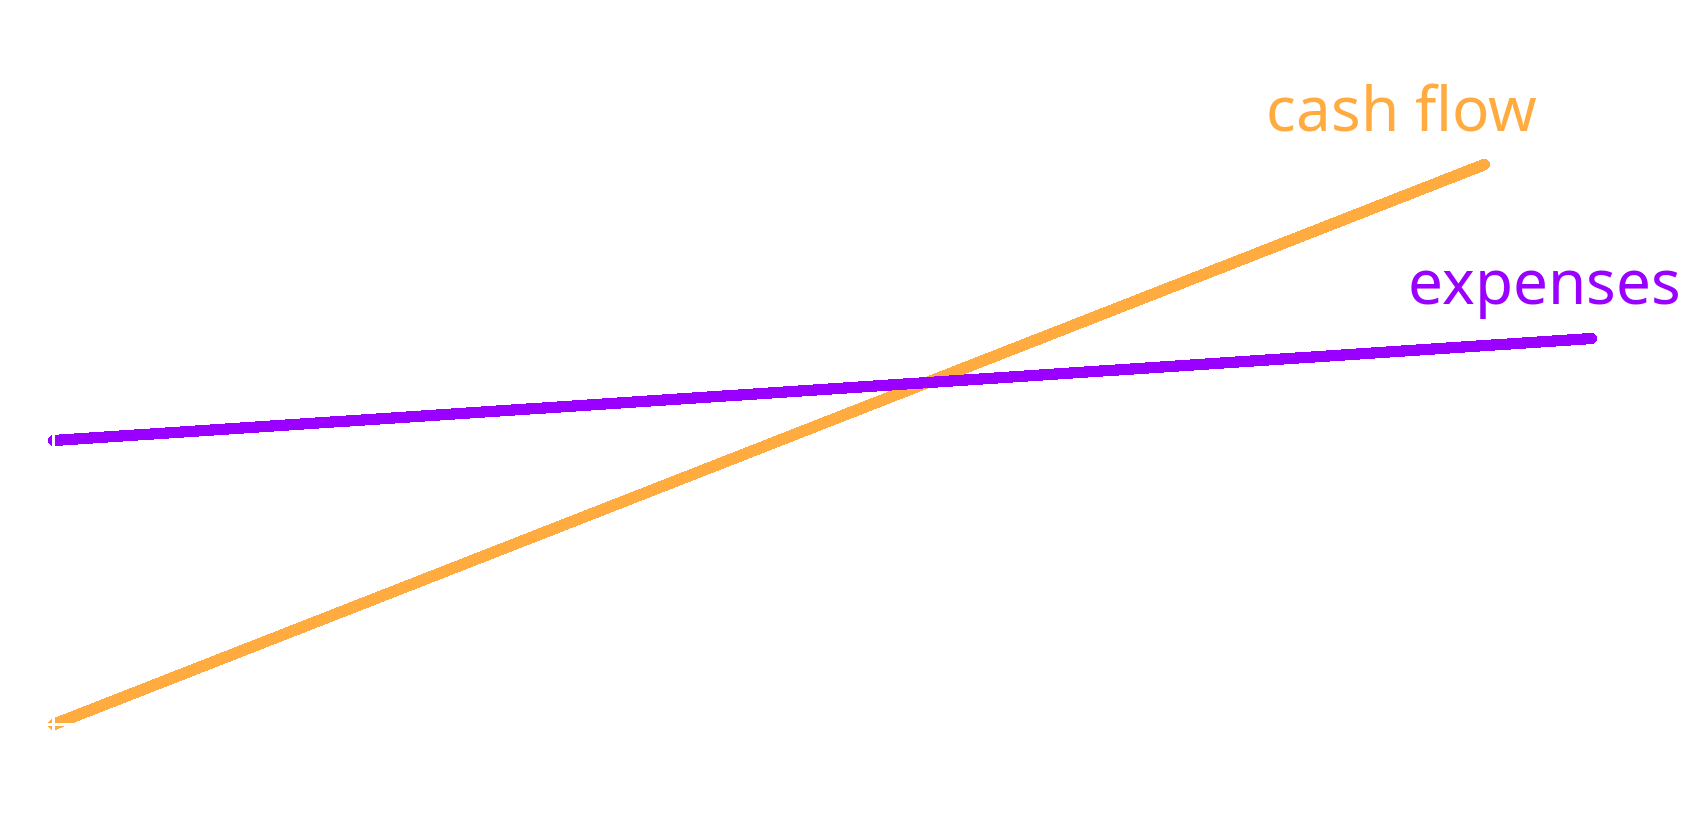
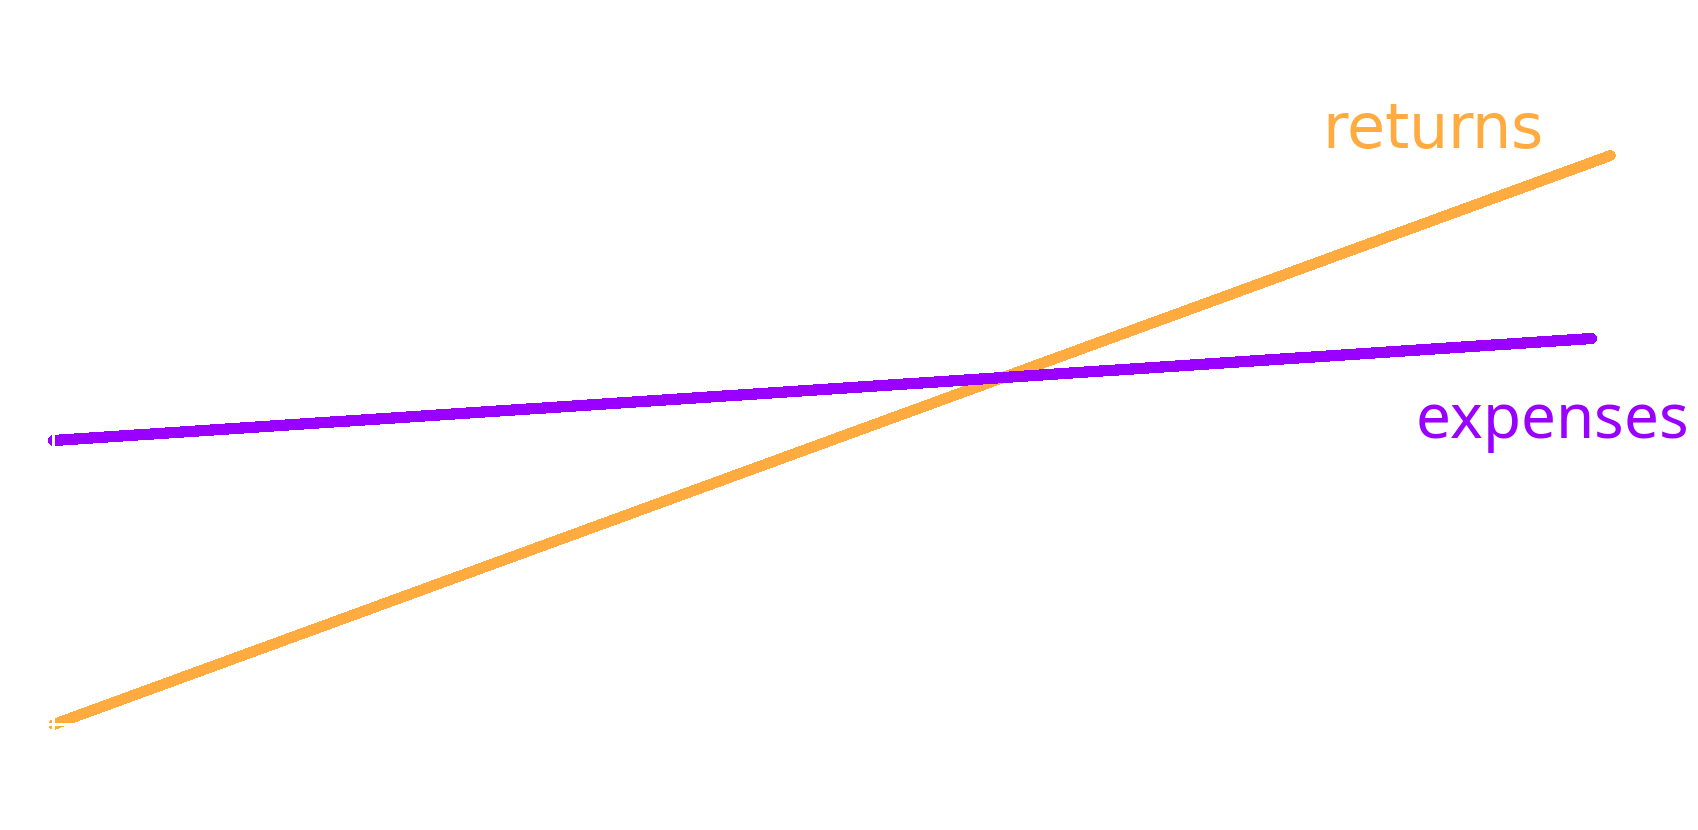
Incorporate feedback on slides
1. Simplified and shortened the slide-deck
to allow more time for questions.
2. Removed the math-heavy section, which
didn't work well.
3. Build a resources section at the end.

diff --git a/pages/presentations/fi.html b/pages/presentations/fi.html
@@ -16,9 +16,8 @@
       .strikethrough {
         text-decoration: line-through;
       }
-      .borderImportant {
-        border: 1rem solid #6600cc;
-        padding: .2rem;
+      .giantText {
+        font-size: 3em;
       }
       .sales {
         display: inline-block;
@@ -34,7 +33,7 @@
     <div class="reveal">
       <div class="slides">
         <section>
-          <h1>Journey to FI</h1>
+          <h2>Journey to Financial Independence</h2>
           Last update: March 2024
         </section>
 
@@ -46,7 +45,7 @@
           </aside>
         </section>
         <section>
-          <b>Talk to your financial advisor, lawyer, accountant, spouse, dog, &hellip;</b>
+          <b>Talk to your financial advisor, lawyer, accountant, partner/spouse, dog, &hellip;</b>
           <aside class="notes">
             Disclaimer as we are going to talk about money<br/>
             I do not know your personal situation.
@@ -60,15 +59,9 @@
           </aside>
         </section>
         <section>
-          This talk is <span class="danger">1</span> data point
-          <aside class="notes">
-            This is my personal journey.<br/>
-            There is a lot of oddity in this plan (not retiring, ...)
-          </aside>
-        </section>
-        <section>
           Your journey will be <span class="cashflow">different</span>
           <aside class="notes">
+            This is my personal journey.<br/>
             Your journey to FI should represent your aspirations. Some of what I will say won’t resonate and that’s OK, find something that works for you!
           </aside>
         </section>
@@ -80,13 +73,12 @@
           </aside>
         </section>
 
-
         <section>
           Let's talk about Financial Independence
         </section>
         <section>
-          When the <span class="cashflow">cash flow</span> from your investments exceeds your <span class="expenses">expenses</span>
-          <aside class="notes">Definition from your money or your life.<br/>In this classic, they actually recommend drawing your cash flow/expenses on paper!</aside>
+          When the <span class="cashflow">returns</span> from your investments exceeds your <span class="expenses">expenses</span>
+          <aside class="notes">Definition from your money or your life.<br/>In this classic, they actually recommend drawing your returns/expenses on paper!</aside>
         </section>
         <section>
           <img src="/presentations/images/cashflow_vs_expenses.png"/>
@@ -104,26 +96,26 @@
          <section>
           The 2 levers of FI:
           <ul>
-            <li>Increase <span class="cashflow">cash flow</span><br/></li>
+            <li>Increase <span class="cashflow">returns</span><br/></li>
             <li>Decrease <span class="expenses">expenses</span></li>
           </ul>
           <aside class="notes">
           <ul>
-            <li>Increase cash flow: increase how much you stash (saving rate, see below) or the quality of your investment (returns)</li>
+            <li>Increase returns: increase how much you stash (saving rate, see below) or the quality of your investment (returns)</li>
             <li>Decrease your expenses</li>
           </ul>
           </aside>
         </section>
         <section>
           <ul>
-            <li>Increase <span class="cashflow">cash flow</span></li>
-            <li><h2>Decrease <span class="expenses">expenses</span></h2></li>
+            <li>Increase <span class="cashflow">returns</span></li>
+            <li class="giantText">Decrease <span class="expenses">expenses</span></li>
           </ul>
-          <aside class="notes">It turns out that they are not equal!</aside>
+          <aside class="notes">
+            Not discounting the returns part (that makes sense early in your career) but expenses has a larger multiplier</aside>
         </section>
         <section>
-          Let's dive into some Math to explain why this is so!
-          <aside class="notes">This should be fairly simple math</aside>
+          Let me explain why!
         </section>
         <section>
           Who has heard about the 4% rule?
@@ -161,39 +153,24 @@
         </section>
         <section>
           4% rule:<br/>
-          $1 <span class="expenses">expense</span> &Equilibrium; $25 of capital invested for <span class="cashflow">cash flow</span>
+          You need <b>25x</b> your <span class="expenses">expenses</span> in invested capital
           <aside class="notes">
-            This is the 4% rule, translated in $$
+            This is the capital T Truth about expenses. The returns are pretty low with a diversified portfolio so your expenses do matter.</aside>
+        </section>
+        <section>
+          &#x1F4C8; Higher multiplier due to <span class="expenses">taxes</span><br/>
+          &#x1F4C9; Lower multiplier with <span class="cashflow">better returns</span>
+          <aside class="notes">
+            Putting things in perspective
           </aside>
         </section>
         <section>
-          $1 of capital invested for <span class="cashflow">cash flow</span> &Equilibrium; $1.5 - $2 in income
-          <aside class="notes">
-            That’s to account for taxes.<br/>
-            For high-income earners, this is closer to $2. $2 is a good rule of thumb.
-          </aside>
-        </section>
-        <section>
-          $1 <span class="expenses">expense</span> &Equilibrium; $37.5 - $50 in income
-          <aside class="notes">This is the capital T Truth about expenses. The returns are pretty low with a diversified portfolio so your expenses do matter.</aside>
-        </section>
-        <section>
-          <span class="borderImportant">$1 <span class="expenses">expense</span> &Equilibrium; $37.5 - $50 in income</span>
-          <aside class="notes">This is the capital T Truth about expenses. The returns are pretty low with a diversified portfolio so your expenses do matter.</aside>
-        </section>
-        <section>
-          <span class="cashflow">Better returns</span> or less taxes means less capital needed
-        </section>
-        <section>
-          But the <b>large multiplier</b> remains
-          <aside class="notes">
-            This just changes the ratio of income to capital needed, not the math<br/>
-            However I don’t know of any investments returning 100% per year forever so the multiplier is always > 1x. For 10% returns, it's still 10x
-          </aside>
+          <span class="danger">Frugality</span>
+          <aside class="notes">This is lean FIRE</aside>
         </section>
 
         <section>
-          How do you build the <span class="cashflow">capital</span>?
+          How do you build the <b>capital</b>?
           <aside class="notes">
             We've talked about reducing expenses but you still need to build the capital<br/>
             Let's focus on this now.
@@ -204,8 +181,7 @@
           saving\_rate &amp; = \frac{income - expenses}{income}
           \end{aligned} \]
           <aside class="notes">
-            Very powerful concept: the saving rate is how much you’re stashing away.<br/>
-            The closer you get to 100% the faster you will reach FI (exponentially so).
+            Very powerful concept: the saving rate is how much you’re stashing away after taxes (aka take home pay).<br/>
           </aside>
         </section>
         <section>
@@ -258,23 +234,13 @@
                 <td>50</td>
                 <td>1</td>
               </tr>
-            </tbody>
-          </table>
-          <table>
-            <thead>
-              <tr>
-                <th>Saving rate (%)</th>
-                <th>How many years can you take after working 1 year?</th>
-              </tr>
-            </thead>
-            <tbody>
               <tr>
                 <td>75</td>
-                <td>3</td>
+                <td>1 / 3</td>
               </tr>
               <tr>
                 <td>80</td>
-                <td>4</td>
+                <td>1 / 4</td>
               </tr>
             </tbody>
           </table>
@@ -283,14 +249,6 @@
             Another way to look at the data<br/>
             High saving rates allow you to take large breaks between jobs
           </aside>
-        </section>
-        <section>
-          What can you do <span class="expenses">without</span>?
-          <aside class="notes">That the hard question underlying it all</aside>
-        </section>
-        <section>
-          <span class="expenses">Frugality</span>
-          <aside class="notes">This is lean FIRE</aside>
         </section>
 
         <section>
@@ -302,36 +260,24 @@
             The worst mistake is to invest badly
           </aside>
         </section>
-        <section>
+        <section id="good-starting-books">
           Good starting books:
           <ul>
             <li>The only investment guide you will ever need</li>
             <li>Simple Path to Wealth</li>
-            <li>Bogleheads' Guide To Investing</li>
           </ul>
           <aside class="notes">
             The only investment guide you will ever need: great starter book on investing in general.<br/>
             Simple Path to Wealth: written for people starting in life<br/>
-            Bogleheads' Guide to Investing: focused on diversifed index funds<br/>
           </aside>
         </section>
         <section>
           Borrow them from your local library &#x1F609;
         </section>
         <section>
-          Limit <span class="danger">debt</span>, especially high-interest
+          <a href="https://www.reddit.com/r/personalfinance/">Reddit r/personalfinance</a>
           <aside class="notes">
-            Debt is a drag on your cash flow. Also it is an incompressible expense<br/>
-            Debt can be good or bad, depending on how it is used (purchase investments vs purchase a depreciating asset like a car)<br/>
-            Personally, only have debt against investments
-          </aside>
-        </section>
-        <section>
-          Most folks use a portfolio of <span class="cashflow">diversified, low-cost index funds</span>
-          <aside class="notes">
-            Emphasis on diversified &amp; low cost: max ~0.1% total fees<br/>
-            Don't want to recommend one as it depends on your risk tolerance, goals, ...<br/>
-            I will give mine as an example later, but I will also criticize it.
+            Great starting resource
           </aside>
         </section>
         <section>
@@ -340,6 +286,19 @@
             Don't invest anything you need in the next 5-10 years<br/>
             At the beginning, you don't have enough money that it will hurt you<br/>
             Take the time to be comfortable with the process
+          </aside>
+        </section>
+        <section>
+          Measure &amp; Budget!
+          <aside class="notes">
+            Will share my tracking sheet
+          </aside>
+        </section>
+        <section>
+          Most folks use a portfolio of <span class="cashflow">diversified, low-cost index funds</span>
+          <aside class="notes">
+            Emphasis on diversified &amp; low cost: max ~0.1% total fees<br/>
+            Don't want to recommend one as it depends on your risk tolerance, goals, ...
           </aside>
         </section>
 
@@ -373,6 +332,7 @@
           ... but it can be really bad for you&trade;
           <aside class="notes">Stopping any activity can lead to a lot of nefarious effects:
             <ul>
+              <li>loss of community</li>
               <li>loneliness</li>
               <li>early aging</li>
             </ul>
@@ -401,7 +361,7 @@
             <tbody>
               <tr>
                 <td rowspan="4">Post-tax</td>
-                <td>Mutual funds/ETFs</td/>
+                <td>Low cost, diversified index funds</td/>
                 <td>20</td>
               </tr>
               <tr>
@@ -433,22 +393,23 @@
             </tbody>
           </table>
           <aside class="notes">
-            I have 3 main buckets of investments: the most important one is the post-tax investments (liquid), real estate is 3 properties + some $$ lended to the business, pre-tax is locked until 65 years old so will kick in when I get older<br/>
-            Calling out the large amount of cash (7y): about to start so want a buffer<br/></aside>
+            I have 3 main buckets of investments: the most important one is the post-tax investments (liquid), real estate and pre-tax (locked until 65 years old unless roth conversion)<br/>
+            Index-funds + cash &gt; 25x (FI goal)<br/>
+            Large amount of cash (7y): buffer to help with transitioning out of Slack<br/></aside>
         </section>
         <section>
-          Mutual funds/ETFs = simplified <span class="cashflow">three-funds portfolio</span>
+          Index funds = simplified <span class="cashflow">three-funds portfolio</span>
           <aside class="notes">
             The 3 fund portfolio is a simple portfolio that is a good starting point<br/>
           </aside>
         </section>
         <section>
             <a href="https://www.bogleheads.org/wiki/Three-fund_portfolio">Three-fund portfolio</a>:
-          <ul>
+          <ol>
             <li>total US stock market</li>
             <li>total international stock market</li>
             <li>total bond market</li>
-          </ul>
+          </ol>
           <aside class="notes">three-funds portfolio is a template (need to add the weight on all class depending on what you want to do)<br/>
             Provides a broad exposure to US/international</aside>
         </section>
@@ -462,26 +423,6 @@
           <aside class="notes">This is aggressive (100% in stock)</aside>
         </section>
         <section>
-          Total US stock market: VTSAX / ESGV
-          <aside class="notes">Ticker used if curious</aside>
-        </section>
-        <section>
-          Total international stock market: VTAIX / VSGX
-          <aside class="notes">Ticker used if curious</aside>
-        </section>
-        <section>
-          Not a perfect asset allocation:
-          <ul>
-            <li>Too much cash right now</li>
-            <li>Heavy in stocks</li>
-            <li>Heavy in international stocks</li>
-          </ul>
-          <aside class="notes">
-            Want to be clear that it's not perfect!<br/>
-            But this is fine by me...
-          </aside>
-        </section>
-        <section>
           <img src="/presentations/images/tracking_chart.png" class="r-stretch"/>
           <aside class="notes">
             Y-axis is $$ in asset<br/>
@@ -493,7 +434,7 @@
           </aside>
         </section>
         <section>
-          <a href="https://docs.google.com/spreadsheets/d/1z-zslX5lz2LL9NoOGY69mlHqswBMK8ZAfnXQDI63-bA/edit">Tracking sheet</a>
+          <a href="https://docs.google.com/spreadsheets/d/1z-zslX5lz2LL9NoOGY69mlHqswBMK8ZAfnXQDI63-bA/edit">My tracking sheet</a>
           <aside class="notes"></aside>
         </section>
 
@@ -511,24 +452,36 @@
 
         <section>
           Parting thoughts
-          <aside class="notes"></aside>
         </section>
         <section>
           What is <span class="danger">YOUR plan</span>?<br/>
-          What can you do <span class="expenses">without</span>?
-          <aside class="notes">
-            To wrap it up, I showed you my plan and how it went. It doesn't matter what I did, what matters is what you want to do.
-          </aside>
+          How can you reduce your <span class="expenses">expenses</span>?
         </section>
         <section>
           Thanks!! &#x1F64F;
         </section>
+        <section id="resources">
+          <h2>Resources</h2>
+          Quick anchor link: <a href="#resources">#resources</a>
+        </section>
         <section>
-          <h2>Extra resources:</h2>
+          <h2><a href="#good-starting-books">Good starting books</a></h2>
+        </section>
+        <section>
+          <h2>From the slides:</h2>
+          <ul>
+            <li><a href="https://www.mrmoneymustache.com/2012/01/13/the-shockingly-simple-math-behind-early-retirement/">Mister Money Moustache (The shockingly simple math behind early retirement)</a></li>
+          <li><a href="https://earlyretirementextreme.com/ere-book">Early Retirement Extreme</a></li>
+            <li><a href="https://www.reddit.com/r/personalfinance">Reddit r/personalfinance</a></li>
+            <li><a href="https://www.bogleheads.org/wiki/Three-fund_portfolio">Three-fund portfolio</a></li>
+            <li><a href="https://docs.google.com/spreadsheets/d/1z-zslX5lz2LL9NoOGY69mlHqswBMK8ZAfnXQDI63-bA/edit">My tracking sheet</a></li>
+          </ul>
+        </section>
+        <section>
+          <h2>Extra:</h2>
           <ul>
             <li><a href="/pages/podcasts.html#fi">My podcast recommendations about FI</a></li>
             <li><a href="/pages/books.html#fi">My books recommendations about FI</a></li>
-            <li><a href="https://www.mrmoneymustache.com/2012/01/13/the-shockingly-simple-math-behind-early-retirement/">Mister Money Moustache (The shockingly simple math behind early retirement)</a></li>
             <li><a href="https://www.bogleheads.org/wiki/Bogleheads%C2%AE_investment_philosophy">Bogleheads investment philosophy</a></li>
           </ul>
         </section>
